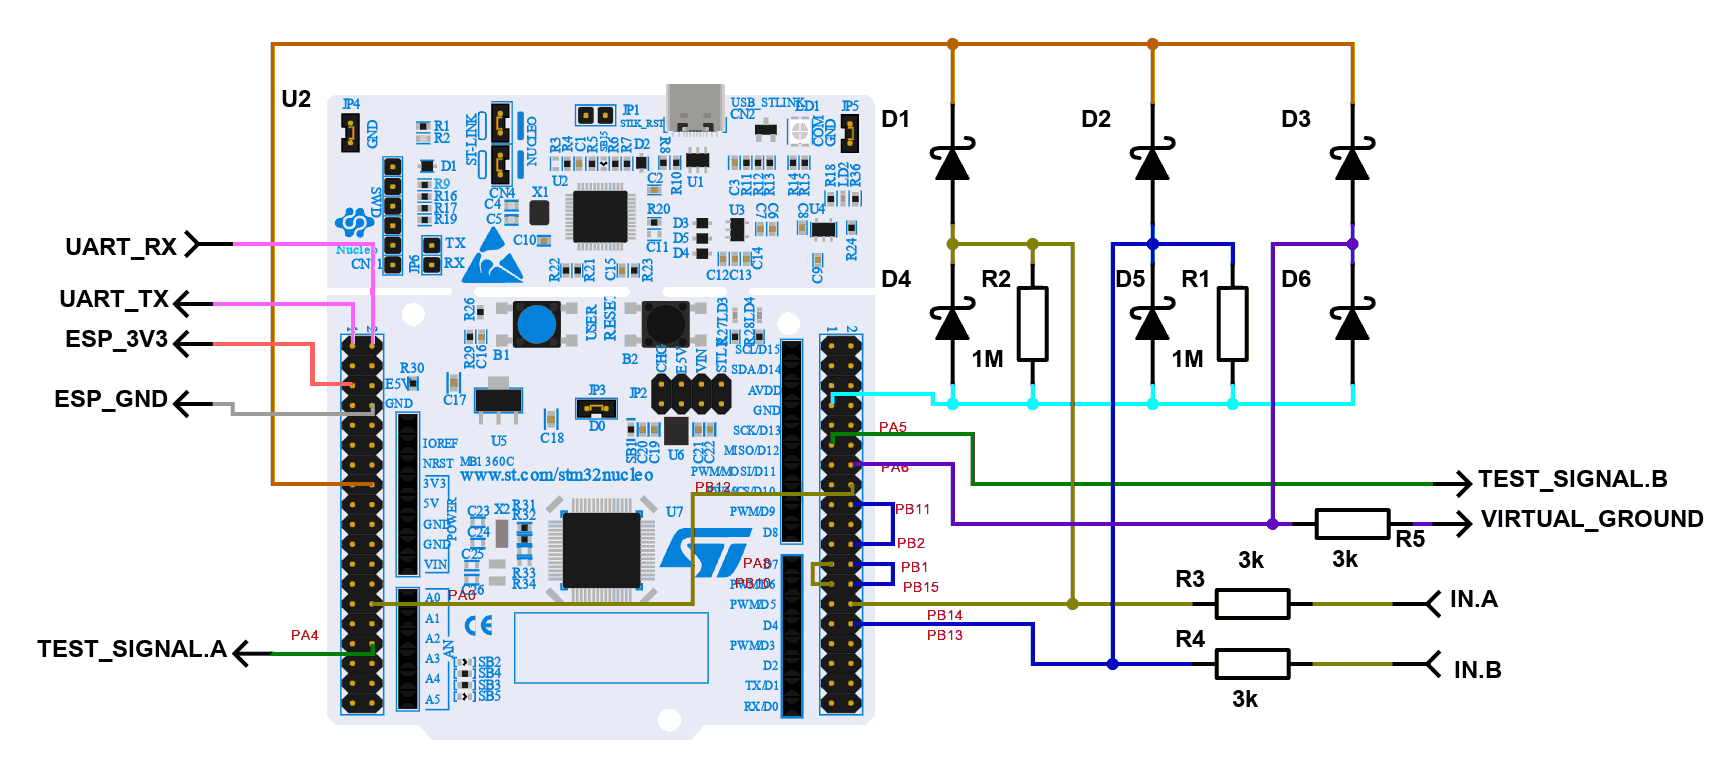
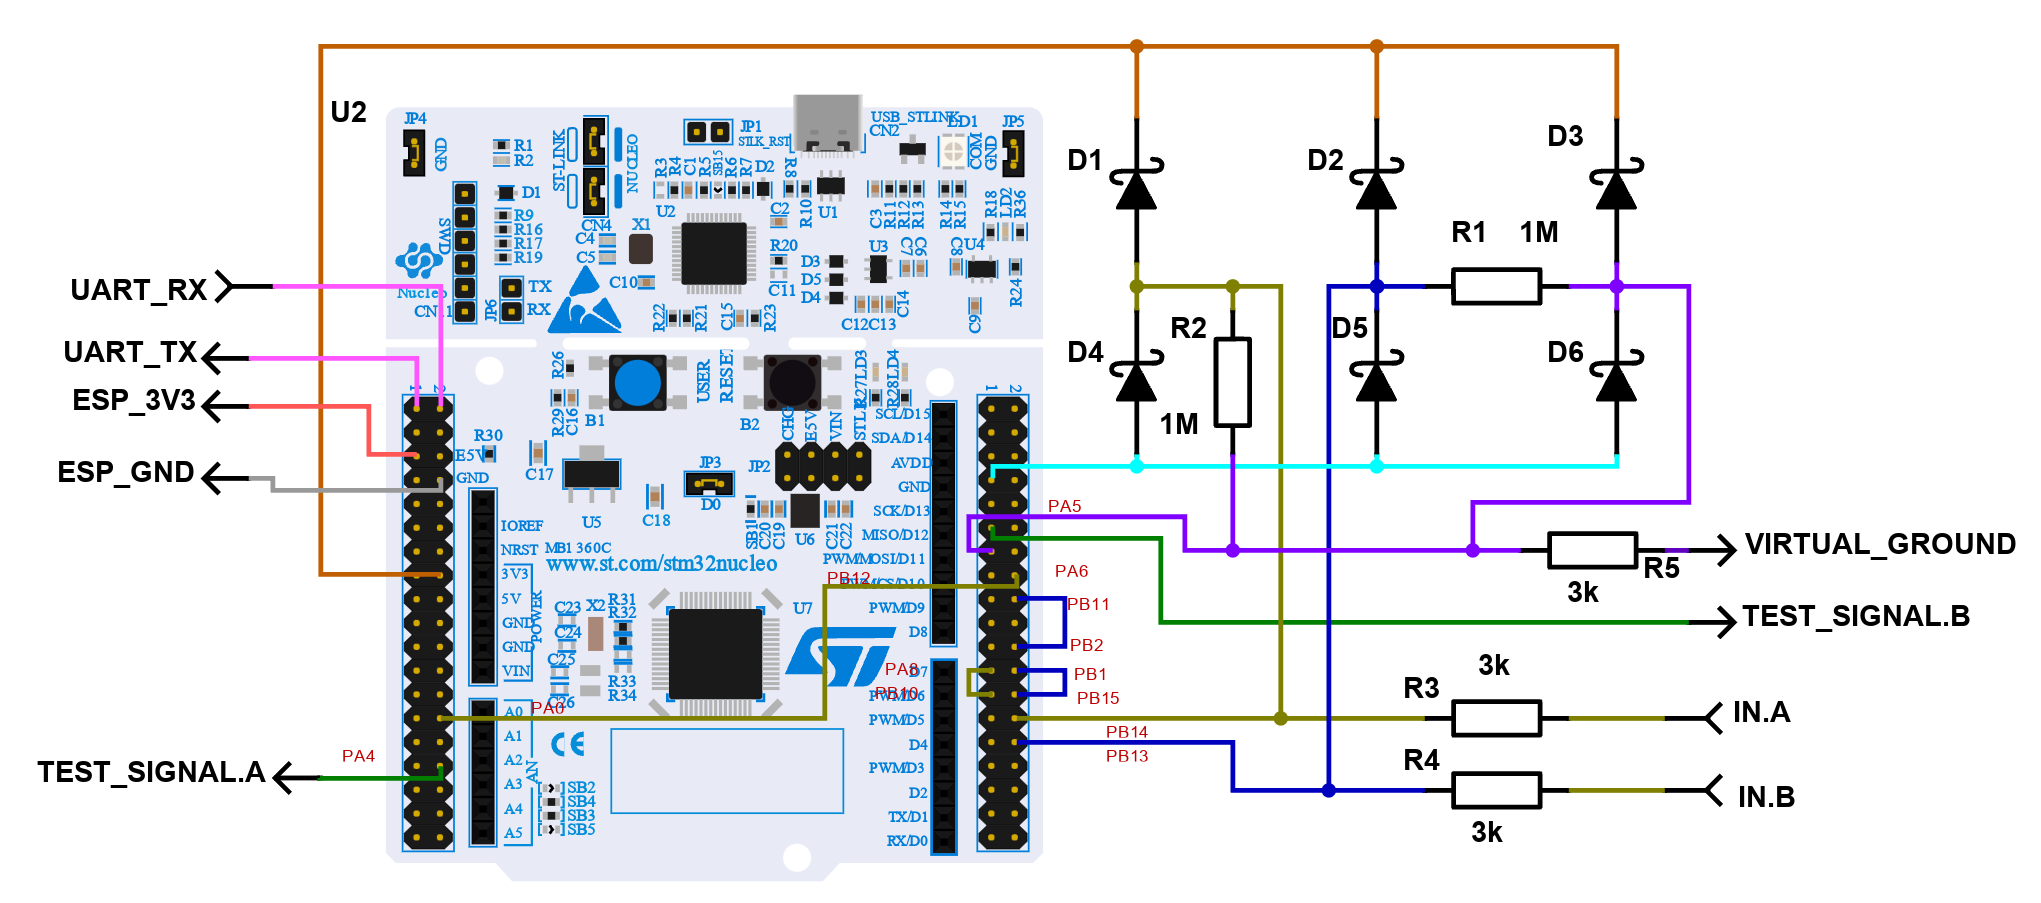
Small fixes + rebranding to FoxilloScope

Changed region(s): [[0.0, 0.0303, 0.9994, 0.9684]]

diff --git a/html/wifi.html b/html/wifi.html
@@ -35,6 +35,7 @@
             margin-top: 12px; padding: 8px;
             border-radius: 3px;
         }
+
         #status-box.connected { background: #0a2a0a; border: 1px solid #0f0; }
         #status-box.disconnected { background: #2a0a0a; border: 1px solid #f00; }
         #status-box.connecting { background: #2a2a0a; border: 1px solid #ff0; }
@@ -46,17 +47,17 @@
     </style>
 </head>
 <body>
-    <h1>Elmot Oscilloscope Wi-Fi Configuration</h1>
+    <h1>FoxilloScope Wi-Fi Configuration</h1>
     <div class="card" style="margin-bottom:16px;font-size:13px;line-height:1.5;color:#aaa">
         <p style="margin-bottom:8px">The oscilloscope may use your existing WiFi network,
             or run its own access point (without internet access).
             To use the oscilloscope, either:</p>
         <ol style="padding-left:1.2em">
             <li>Keep this network, acknowledge "no internet" on your device, and open the oscilloscope directly.</li>
-            <li>Configure WiFi client below &mdash; then reconnect to your normal WiFi network and open the oscilloscope.</li>
+            <li>Configure Wi-Fi client below &mdash; then reconnect to your normal WiFi network and open the oscilloscope.</li>
         </ol>
         <p style="margin-top:8px">Better copy the URL to open later:<br>
-        <code style="user-select:all;color:#0f0;font-size:15px">http://elmot-oscl.local/</code></p>
+        <code style="user-select:all;color:#0f0;font-size:15px">http://f-scope.local/</code></p>
     </div>
     <div class="card" id="status-box">
         <div class="stat-row"><span class="stat-label">Status</span><span id="stat-status">—</span></div>
@@ -68,7 +69,7 @@
     <h2>Change Network</h2>
     <div class="card">
         <label for="ssid">SSID</label>
-        <input type="text" id="ssid" placeholder="Network name">
+        <input type="text" id="ssid" placeholder="Network name" class="not-fetched">
         <label for="password">Password</label>
         <input type="password" id="password" placeholder="WiFi password">
         <button id="saveBtn">Save &amp; Reconnect</button>
@@ -91,7 +92,11 @@
                 $('stat-rssi').textContent = sta.rssi !== null ? sta.rssi + ' dBm' : '—';
                 const box = $('status-box');
                 box.className = 'card ' + (sta.status || 'disconnected');
-                if (sta.ssid) $('ssid').value = sta.ssid;
+                const ssid_input = $('ssid')
+                if (sta.ssid && ssid_input.classList.contains("not-fetched")) {
+                    ssid_input.value = sta.ssid;
+                    ssid_input.classList.remove("not-fetched")
+                }
             } catch (e) {
                 $('status-box').className = 'card disconnected';
             }
@@ -100,10 +105,11 @@
         $('saveBtn').onclick = async () => {
             const ssid = $('ssid').value.trim();
             const password = $('password').value.trim();
-            if (!ssid) { $('msg').textContent = 'SSID is required'; $('msg').className = ''; return; }
+            let $msg = $('msg');
+            if (!ssid) { $msg.textContent = 'SSID is required'; $msg.className = ''; return; }
             $('saveBtn').disabled = true;
-            $('msg').textContent = 'Saving...';
-            $('msg').className = 'ok';
+            $msg.textContent = 'Saving...';
+            $msg.className = 'ok';
             try {
                 const r = await fetch('/api/wifi', {
                     method: 'POST',
@@ -112,16 +118,16 @@
                 });
                 const result = await r.json();
                 if (result.ok) {
-                    $('msg').innerHTML = 'Saved! Rebooting\u2026<br>Access the oscilloscope at <a href="http://elmot-oscl.local/" style="color:#0f0">http://elmot-oscl.local/</a>';
-                    $('msg').className = 'ok';
+                    $msg.innerHTML = 'Saved! Rebooting\u2026<br>Access the oscilloscope at <a href="http://f-scope.local/" style="color:#0f0">http://f-scope.local/</a>';
+                    $msg.className = 'ok';
                     $('saveBtn').disabled = true;
                 } else {
-                    $('msg').textContent = 'Error: ' + (result.error || 'unknown');
-                    $('msg').className = '';
+                    $msg.textContent = 'Error: ' + (result.error || 'unknown');
+                    $msg.className = '';
                 }
             } catch (e) {
-                $('msg').textContent = 'Failed to send: ' + e.message;
-                $('msg').className = '';
+                $msg.textContent = 'Failed to send: ' + e.message;
+                $msg.className = '';
             }
             $('saveBtn').disabled = false;
         };

diff --git a/html/index.html b/html/index.html
@@ -9,7 +9,7 @@
     <link rel="icon" type="image/png" href="favicon.png" />
     <meta charset="utf-8">
     <meta name="viewport" content="width=device-width, initial-scale=1">
-    <title>Oscilloscope</title>
+    <title>FoxilloScope</title>
     <link rel="stylesheet" href="uPlot.min.css">
     <style>
         :root { --ch-a: #FFD600; --ch-b: #00E5FF; --ch-a-key: #FFF59D; --ch-b-key: #84FFFF; }

diff --git a/esp32-gateway/main/led.c b/esp32-gateway/main/led.c
@@ -16,7 +16,8 @@ static void led_set_rgb(uint8_t r, uint8_t g, uint8_t b)
     if (!s_led_chan || !s_led_encoder) return;
     rmt_symbol_word_t sym[25];
     const uint32_t grb = ((uint32_t)g << 16) | ((uint32_t)r << 8) | b;
-    for (int i = 0; i < 24; i++) {
+    for (int i = 0; i < 24; i++)
+    {
         const bool bit = (grb >> (23 - i)) & 1;
         sym[i] = (rmt_symbol_word_t){
             .duration0 = bit ? LED_T1H : LED_T0H,
@@ -29,18 +30,34 @@ static void led_set_rgb(uint8_t r, uint8_t g, uint8_t b)
         .duration0 = LED_RESET, .level0 = 0,
         .duration1 = 0, .level1 = 0,
     };
-    const rmt_transmit_config_t t = { .loop_count = 0 };
+    const rmt_transmit_config_t t = {.loop_count = 0};
     rmt_transmit(s_led_chan, s_led_encoder, sym, sizeof(sym), &t);
 }
 
 void led_refresh(void)
 {
     if (!s_led_chan) return;
-    if (ws_any_connected()) { led_set_rgb(0, 32, 0); return; }
-    if (ble_any_connected()) { led_set_rgb(0, 0, 32); return; }
-    if (xEventGroupGetBits(s_wifi_event_group) & WIFI_FAIL_BIT) { led_set_rgb(32, 24, 0); return; }
-    if (s_sta_connected) { led_set_rgb(0, 6, 0); return; }
-    led_set_rgb(20,10,10);
+    if (ws_any_connected())
+    {
+        led_set_rgb(0, 128, 0);
+        return;
+    }
+    if (ble_any_connected())
+    {
+        led_set_rgb(0, 0, 128);
+        return;
+    }
+    if (xEventGroupGetBits(s_wifi_event_group) & WIFI_FAIL_BIT)
+    {
+        led_set_rgb(128, 64, 0);
+        return;
+    }
+    if (s_sta_connected)
+    {
+        led_set_rgb(32, 32, 32);
+        return;
+    }
+    led_set_rgb(20, 0, 20);
 }
 
 void led_init(void)
@@ -56,6 +73,5 @@ void led_init(void)
     rmt_copy_encoder_config_t ec = {};
     if (rmt_new_copy_encoder(&ec, &s_led_encoder) != ESP_OK) return;
     rmt_enable(s_led_chan);
-    led_set_rgb(40,20,20);
+    led_set_rgb(20, 0, 20);
 }
-

diff --git a/docs/pinout-peripherals.md b/docs/pinout-peripherals.md
@@ -1,5 +1,5 @@
-Configuration g4-oscilloscope-b
-Date 06/16/2026
+FoxilloScope
+===
 
 **NB** OPAMP6, OPAMP3 work in inverted mode, so bias, trigger, and trigger type are also inverted
 
